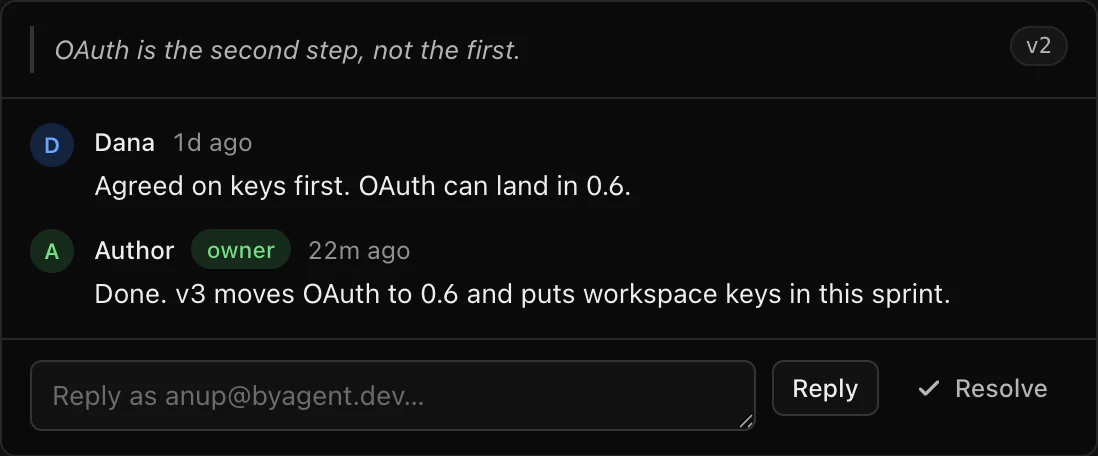
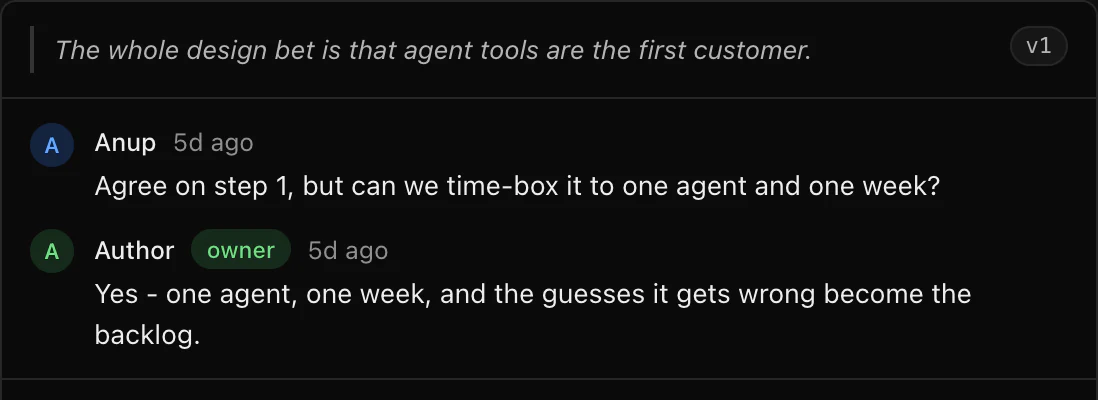
feat: shoot the landing stills from the real shelf
Signed in to the real workspace and reshot both figures there, so the
page shows what byagent.dev actually holds rather than a seeded stand-in.

- The shelf: eleven pages across six projects on one day, with the day
  headings above and below, so it reads as a library instead of a demo.
  Framed on that day because the last few days are thin and a top-of-page
  frame was half empty.
- The thread: the real one on "artifacts: what ships next", cropped above
  the reply box, which prints the signed-in account's address.

Titles in frame are the owner's real project names. Nothing is deployed;
this only changes what the page would show once it is.

diff --git a/internal/app/templates/landing.html b/internal/app/templates/landing.html
@@ -39,8 +39,8 @@
     </picture>
     <picture>
       <source srcset="{{$d.ThreadDarkURL}}" media="(prefers-color-scheme: dark)">
-      <img class="lp-shot-inset" src="{{$d.ThreadURL}}" width="549" height="228" loading="lazy"
-           alt="A comment thread on one page: a reader quotes a line and replies to it, and the owner answers that version 3 makes the change">
+      <img class="lp-shot-inset" src="{{$d.ThreadURL}}" width="549" height="200" loading="lazy"
+           alt="A comment thread on one page: a reader quotes a line, asks to time-box the first step, and the owner answers underneath">
     </picture>
   </div>
   <figcaption>Every page by project and day. On each one, the thread a reader left on the line they meant.</figcaption>
